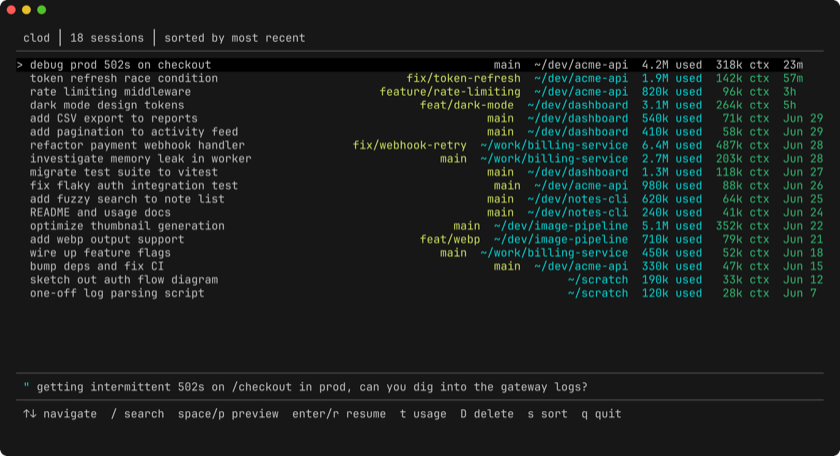
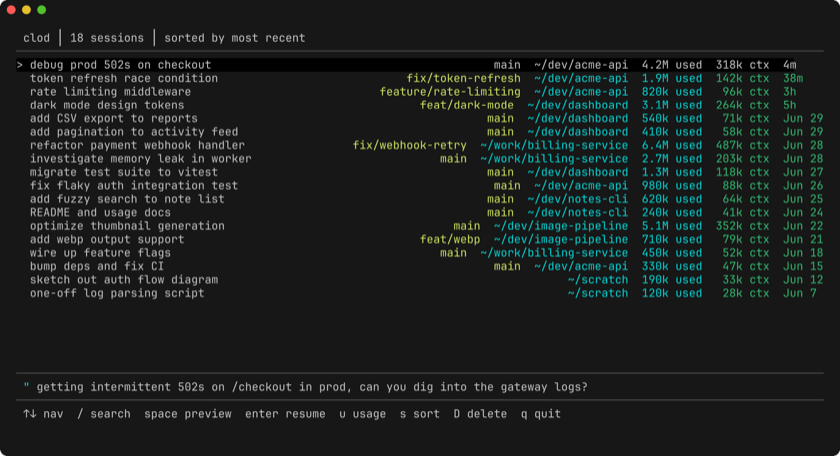
docs: update keys table and screenshots for rebind

Changed region(s): [[0.0619, 0.8904, 0.7429, 0.9211], [0.9286, 0.1228, 0.9595, 0.1842]]

diff --git a/README.md b/README.md
@@ -44,11 +44,11 @@ node src/index.js
 | `↑` / `↓` | Navigate list |
 | `PgUp` / `PgDn` | Jump up/down a page |
 | `/` | Search titles (fuzzy) and message contents |
-| `space` / `p` | Preview conversation |
-| `enter` / `r` | Resume selected session |
-| `t` | Usage dashboard (token counts) |
-| `D` | Delete (moves to Trash; includes tasks, file-history, session-env, debug/telemetry, and history.jsonl prompt lines) |
+| `space` | Preview conversation |
+| `enter` | Resume selected session |
+| `u` | Usage dashboard (token counts) |
 | `s` | Cycle sort: recent → lexicographic → by directory |
+| `D` | Delete (moves to Trash; includes tasks, file-history, session-env, debug/telemetry, and history.jsonl prompt lines) |
 | `q` / `esc` | Quit |
 
 ### What it shows
@@ -66,7 +66,7 @@ Bottom bar: last user message from the selected session.
 
 ### Dashboard
 
-Press `t` for an aggregate view across all sessions: total throughput, a token
+Press `u` for an aggregate view across all sessions: total throughput, a token
 breakdown by type (input / output / cache write / cache read), a 30-day
 throughput-per-day sparkline, a per-model breakdown, and top projects by
 throughput. The cache-inclusive grand total is shown alongside the headline so